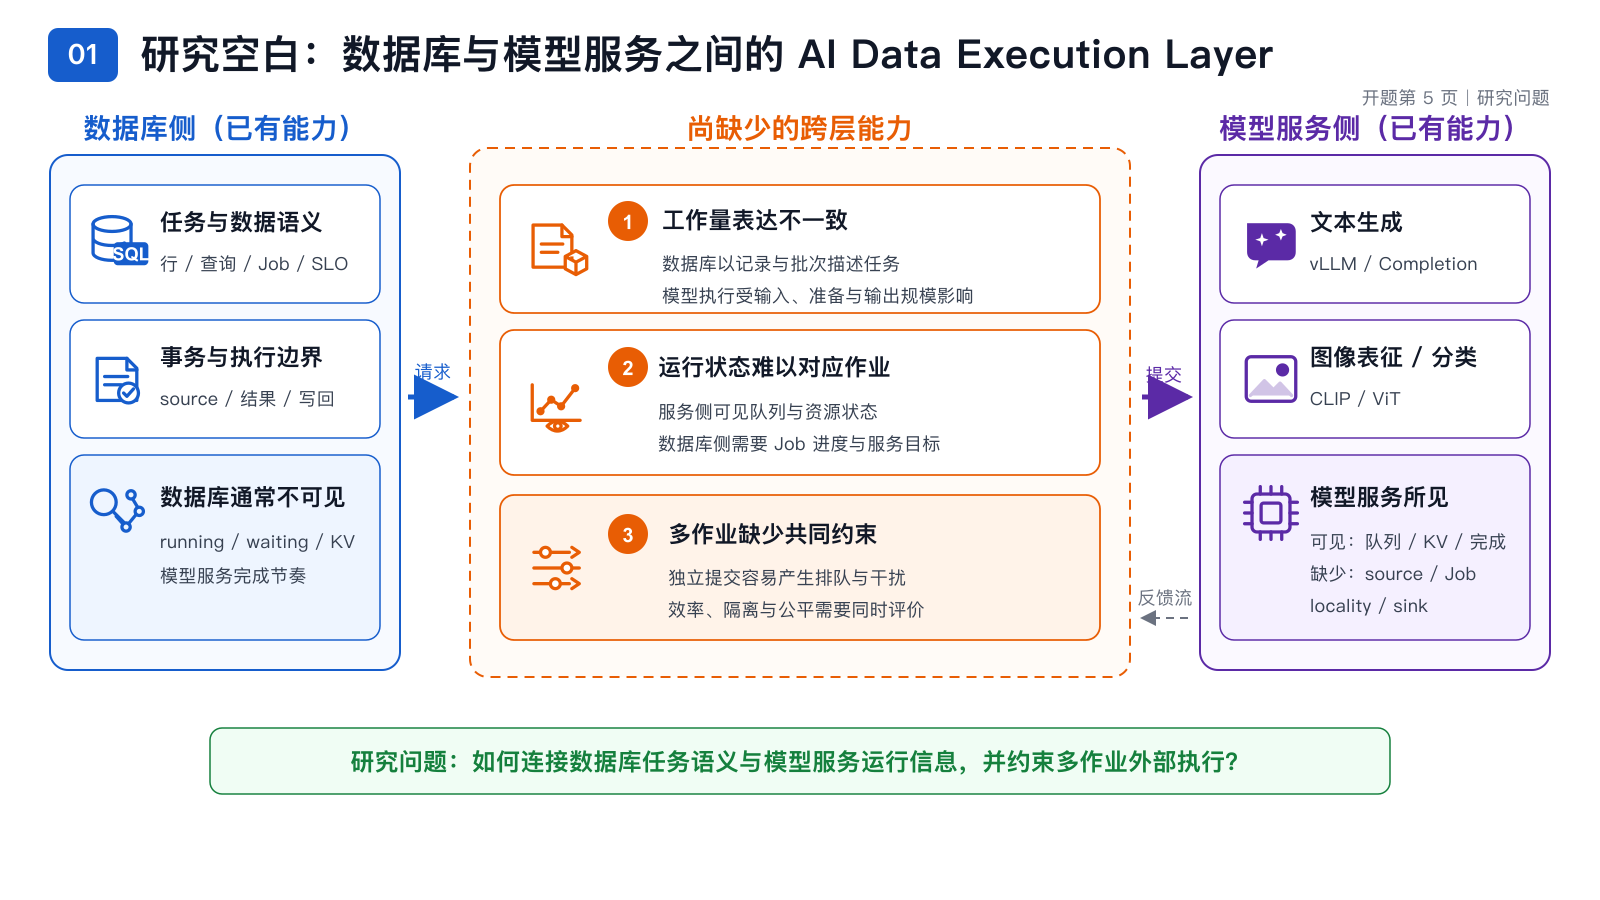
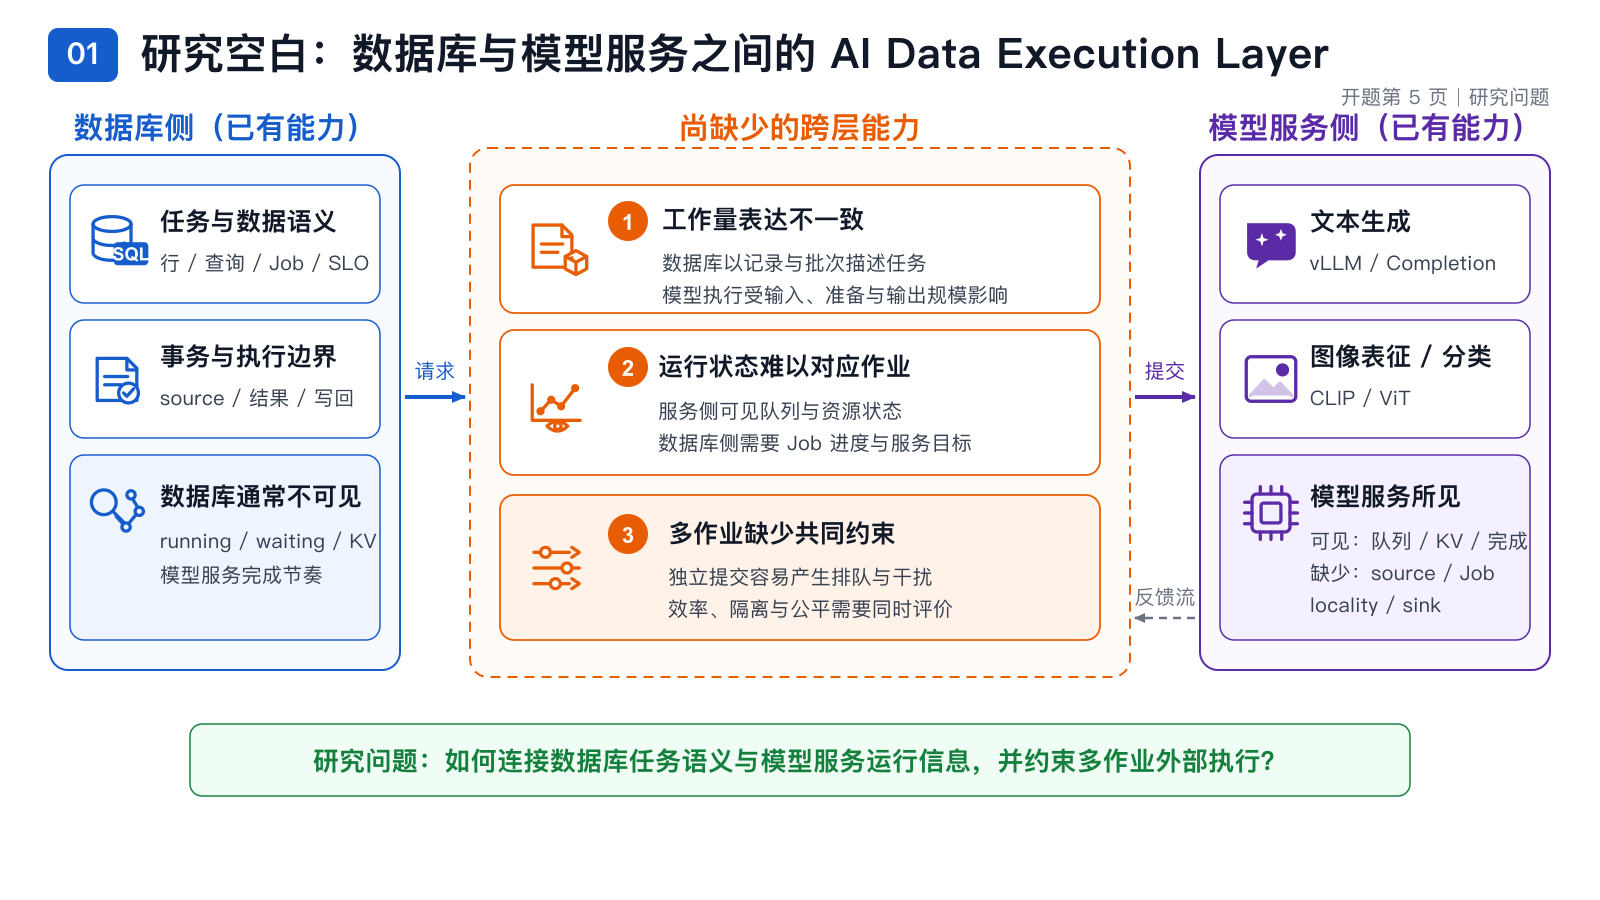
Improve P05 arrows and typography

diff --git a/PROJECT_LOG.md b/PROJECT_LOG.md
@@ -6949,3 +6949,12 @@ bounded/duckdb/lb_rr 用增强 instrumentation（`VllmGaugeSampler` 每 0.5s dur
   不提前展示项目机制。
 - P06--P08 只中性化标题或标签，未改变实验数值与图形几何。权威 SVG/PNG、可编辑 Draw.io、专用图集
   副本、逐图审计和索引已同步；概念图与数据图均完成原尺寸目视检查。
+
+## 2026-08-17 P05 箭头与可读性修订
+
+- 修正 P05 三栏之间连接器的 marker 缩放问题：SVG marker 改用 `userSpaceOnUse` 固定像素尺寸；
+  蓝色请求与紫色提交箭头均使用 60 px 路径、4 px 线宽和 14×12 px 头部，灰色反馈使用 60 px
+  虚线路径、2.5 px 线宽和 11×10 px 头部。三个箭头都有完整可见线身，方向清晰。
+- 不改文字内容，将标题、分区、卡片标题、正文/标签、结论提高到 42/30/25/20/26 px，并同步扩大
+  对应文本框和底部结论框；全尺寸检查无越界、意外换行、图标遮挡或边框覆盖。
+- 同步权威 Draw.io/SVG/PNG、开题专用图集 P05 副本和逐图审计；本轮未修改或重生成 PPT。

diff --git a/figures/README.md b/figures/README.md
@@ -121,6 +121,10 @@ PPT 成品；旧 PPT 只是历史底稿。
 completion 路径；05 删除七个圆角修补 mask，并把窄卡文字改为显式两行。五张图禁止用遮罩或
 新卡片盖住错误对象，必须删除错误节点后再导出。
 
+2026-08-17 再次修订 01/P05：将标题、分区、卡片标题、正文和结论分别提高到
+42/30/25/20/26 px；跨栏请求/提交箭头改为固定像素小箭头头与 60 px 完整线身，反馈箭头同步使用
+较小固定头和灰色虚线。权威源与开题专用图集副本均已同步，未修改 PPT。
+
 2026-08-12 又在 `architecture/editable/opening_background_20260812/` 增补第 2–4 页三张背景图：
 数据库 AI 算子外部执行链路、传统数据库算子与外部 AI 算子的执行假设对照、相关工作分层。
 三图已按项目事实重写并通过 Draw.io 结构检查、1600×900 与 PPT 缩放目视审计；图集副本命名为

diff --git a/opening/logs/project_log.md b/opening/logs/project_log.md
@@ -747,3 +747,11 @@
   准入/路由和 typed Ray actor 设计；P04 只作相关工作分层；P05 只作研究空白归纳。
 - P06--P08 仅收束标题/标签措辞，实验数值、坐标、统计量和几何均未改变。
 - 权威 SVG/PNG、Draw.io 源、开题专用图集副本与审计记录同步更新，并通过原尺寸目视复核。
+
+# 2026-08-17 P05 图面可读性修订
+
+- 仅调整 P05 图资产，不修改 PPT：跨栏请求/提交箭头改为固定尺寸的小箭头头和完整 60 px 线身，
+  灰色反馈箭头同步采用更小固定头与清晰虚线。
+- 标题、分区标题、卡片标题、正文/标签和结论整体放大为 42/30/25/20/26 px；同步调整文本框和
+  结论框尺寸，原文与研究空白叙事保持不变。
+- Draw.io、SVG、1600×900 PNG 和专用图集 P05 副本已同步并完成全尺寸目视检查。
